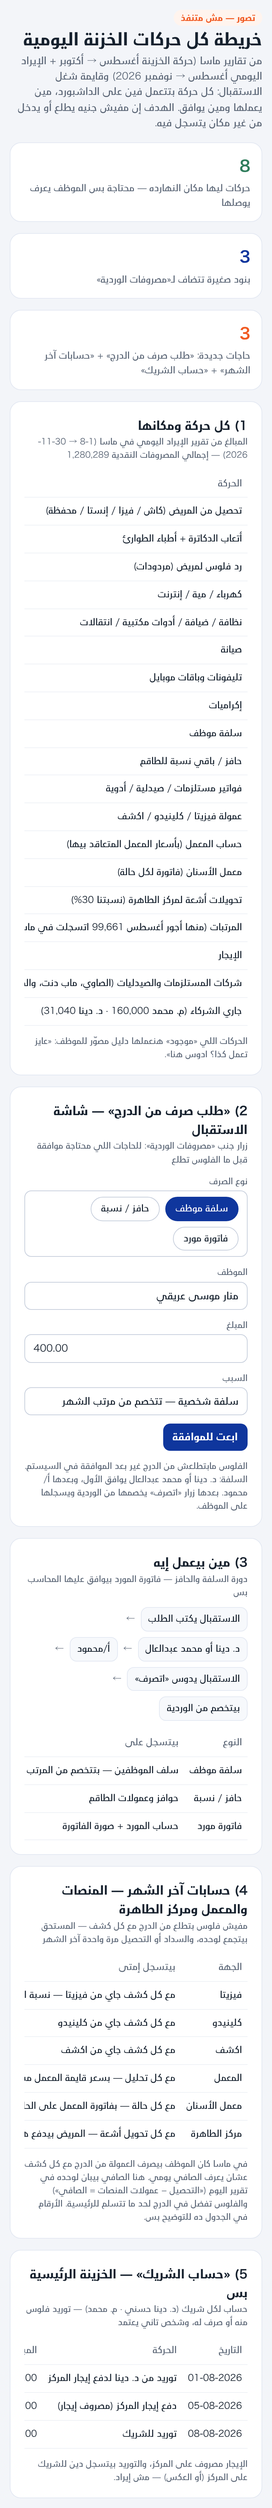
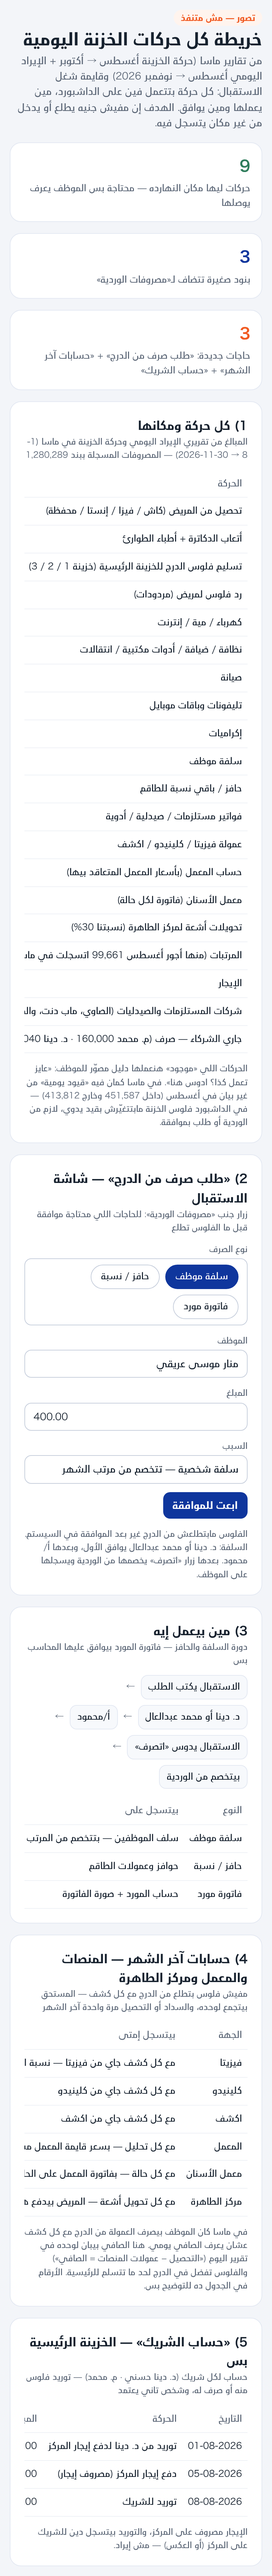
Mockup: treasury movement report Aug-Nov (handover row, partner deposits, untitled journal entries note)
Claude-Session: https://claude.ai/code/session_01UqVZHWa751JciR5NzZebwW

diff --git a/docs/ui-references/mockups/daily-movements-map.html b/docs/ui-references/mockups/daily-movements-map.html
@@ -33,16 +33,17 @@ table{width:100%;border-collapse:collapse;font-size:13px}th,td{text-align:right;
 <p class="sub">من تقارير ماسا (حركة الخزينة أغسطس → أكتوبر + الإيراد اليومي أغسطس → نوفمبر 2026) وقايمة شغل الاستقبال: كل حركة بتتعمل فين على الداشبورد، مين يعملها ومين يوافق. الهدف إن مفيش جنيه يطلع أو يدخل من غير مكان يتسجل فيه.</p></div>
 
 <div class="kpis">
- <div class="kpi ok"><b>8</b><span>حركات ليها مكان النهارده — محتاجة بس الموظف يعرف يوصلها</span></div>
+ <div class="kpi ok"><b>9</b><span>حركات ليها مكان النهارده — محتاجة بس الموظف يعرف يوصلها</span></div>
  <div class="kpi small"><b>3</b><span>بنود صغيرة تتضاف لـ«مصروفات الوردية»</span></div>
  <div class="kpi new"><b>3</b><span>حاجات جديدة: «طلب صرف من الدرج» + «حسابات آخر الشهر» + «حساب الشريك»</span></div>
 </div>
 
 <section class="card">
- <h2>1) كل حركة ومكانها<small>المبالغ من تقرير الإيراد اليومي في ماسا (1-8 → 30-11-2026) — إجمالي المصروفات النقدية 1,280,289</small></h2>
+ <h2>1) كل حركة ومكانها<small>المبالغ من تقريري الإيراد اليومي وحركة الخزينة في ماسا (1-8 → 30-11-2026) — المصروفات المسجلة ببند 1,280,289</small></h2>
  <table><thead><tr><th>الحركة</th><th>4 شهور</th><th>مين يعملها</th><th>من فين</th><th>مين يوافق</th><th>الحالة</th></tr></thead><tbody>
   <tr><td>تحصيل من المريض (كاش / فيزا / إنستا / محفظة)</td><td class="num">1,425,366</td><td>الاستقبال</td><td>التحصيل ← «أنهي محفظة؟»</td><td>—</td><td><span class="st ok">موجود</span></td></tr>
   <tr><td>أتعاب الدكاترة + أطباء الطوارئ</td><td class="num">434,382</td><td>الاستقبال</td><td>مكتب صرف الأتعاب — كل دكتور باسمه</td><td>المحاسب</td><td><span class="st ok">موجود</span></td></tr>
+  <tr><td>تسليم فلوس الدرج للخزينة الرئيسية (خزينة 1 / 2 / 3)</td><td class="num">40,330</td><td>الاستقبال</td><td>آخر الوردية ← «تسليم للرئيسية»</td><td>أمين الرئيسية يستلم</td><td><span class="st ok">موجود</span></td></tr>
   <tr><td>رد فلوس لمريض (مردودات)</td><td class="num">6,960</td><td>الاستقبال</td><td>طلبات الاستقبال ← «استرداد»</td><td>المحاسب</td><td><span class="st ok">موجود</span></td></tr>
   <tr><td>كهرباء / مية / إنترنت</td><td class="num">29,545</td><td>الاستقبال</td><td>مصروفات الوردية</td><td>المحاسب يراجع الإيصال</td><td><span class="st ok">موجود</span></td></tr>
   <tr><td>نظافة / ضيافة / أدوات مكتبية / انتقالات</td><td class="num">21,875</td><td>الاستقبال</td><td>مصروفات الوردية</td><td>المحاسب يراجع الإيصال</td><td><span class="st ok">موجود</span></td></tr>
@@ -59,9 +60,9 @@ table{width:100%;border-collapse:collapse;font-size:13px}th,td{text-align:right;
   <tr><td>المرتبات (منها أجور أغسطس 99,661 اتسجلت في ماسا غلط كـ«سلف تشغيلي»)</td><td class="num">284,536</td><td>المحاسب / المدير المالي</td><td>المرتبات ← صرف من الخزينة الرئيسية</td><td>شخص تاني</td><td><span class="st ok">موجود</span></td></tr>
   <tr><td>الإيجار</td><td class="num">82,500</td><td>المدير المالي</td><td>المصروفات العمومية ← «إيجار» من الخزينة الرئيسية</td><td>شخص تاني</td><td><span class="st ok">موجود</span></td></tr>
   <tr><td>شركات المستلزمات والصيدليات (الصاوي، ماب دنت، والي، غزالي…)</td><td class="num">73,521</td><td>المحاسب</td><td>الموردين ← فاتورة ← سداد من الرئيسية</td><td>شخص تاني</td><td><span class="st ok">موجود</span></td></tr>
-  <tr><td>جاري الشركاء (م. محمد 160,000 · د. دينا 31,040)</td><td class="num">191,040</td><td>المدير المالي</td><td>الخزينة الرئيسية ← «حساب الشريك»</td><td>شخص تاني</td><td><span class="st new">جديد</span></td></tr>
+  <tr><td>جاري الشركاء — صرف (م. محمد 160,000 · د. دينا 31,040) وتوريد من د. دينا 69,111</td><td class="num">260,151</td><td>المدير المالي</td><td>الخزينة الرئيسية ← «حساب الشريك»</td><td>شخص تاني</td><td><span class="st new">جديد</span></td></tr>
  </tbody></table>
- <p class="note">الحركات اللي «موجود» هنعملها دليل مصوّر للموظف: «عايز تعمل كذا؟ ادوس هنا».</p>
+ <p class="note">الحركات اللي «موجود» هنعملها دليل مصوّر للموظف: «عايز تعمل كذا؟ ادوس هنا». في ماسا كمان فيه «قيود يومية» من غير بيان في أغسطس (داخل 451,587 وخارج 413,812) — في الداشبورد فلوس الخزنة مابتتغيّرش بقيد يدوي، لازم من الوردية أو طلب بموافقة.</p>
 </section>
 
 <div class="grid">
